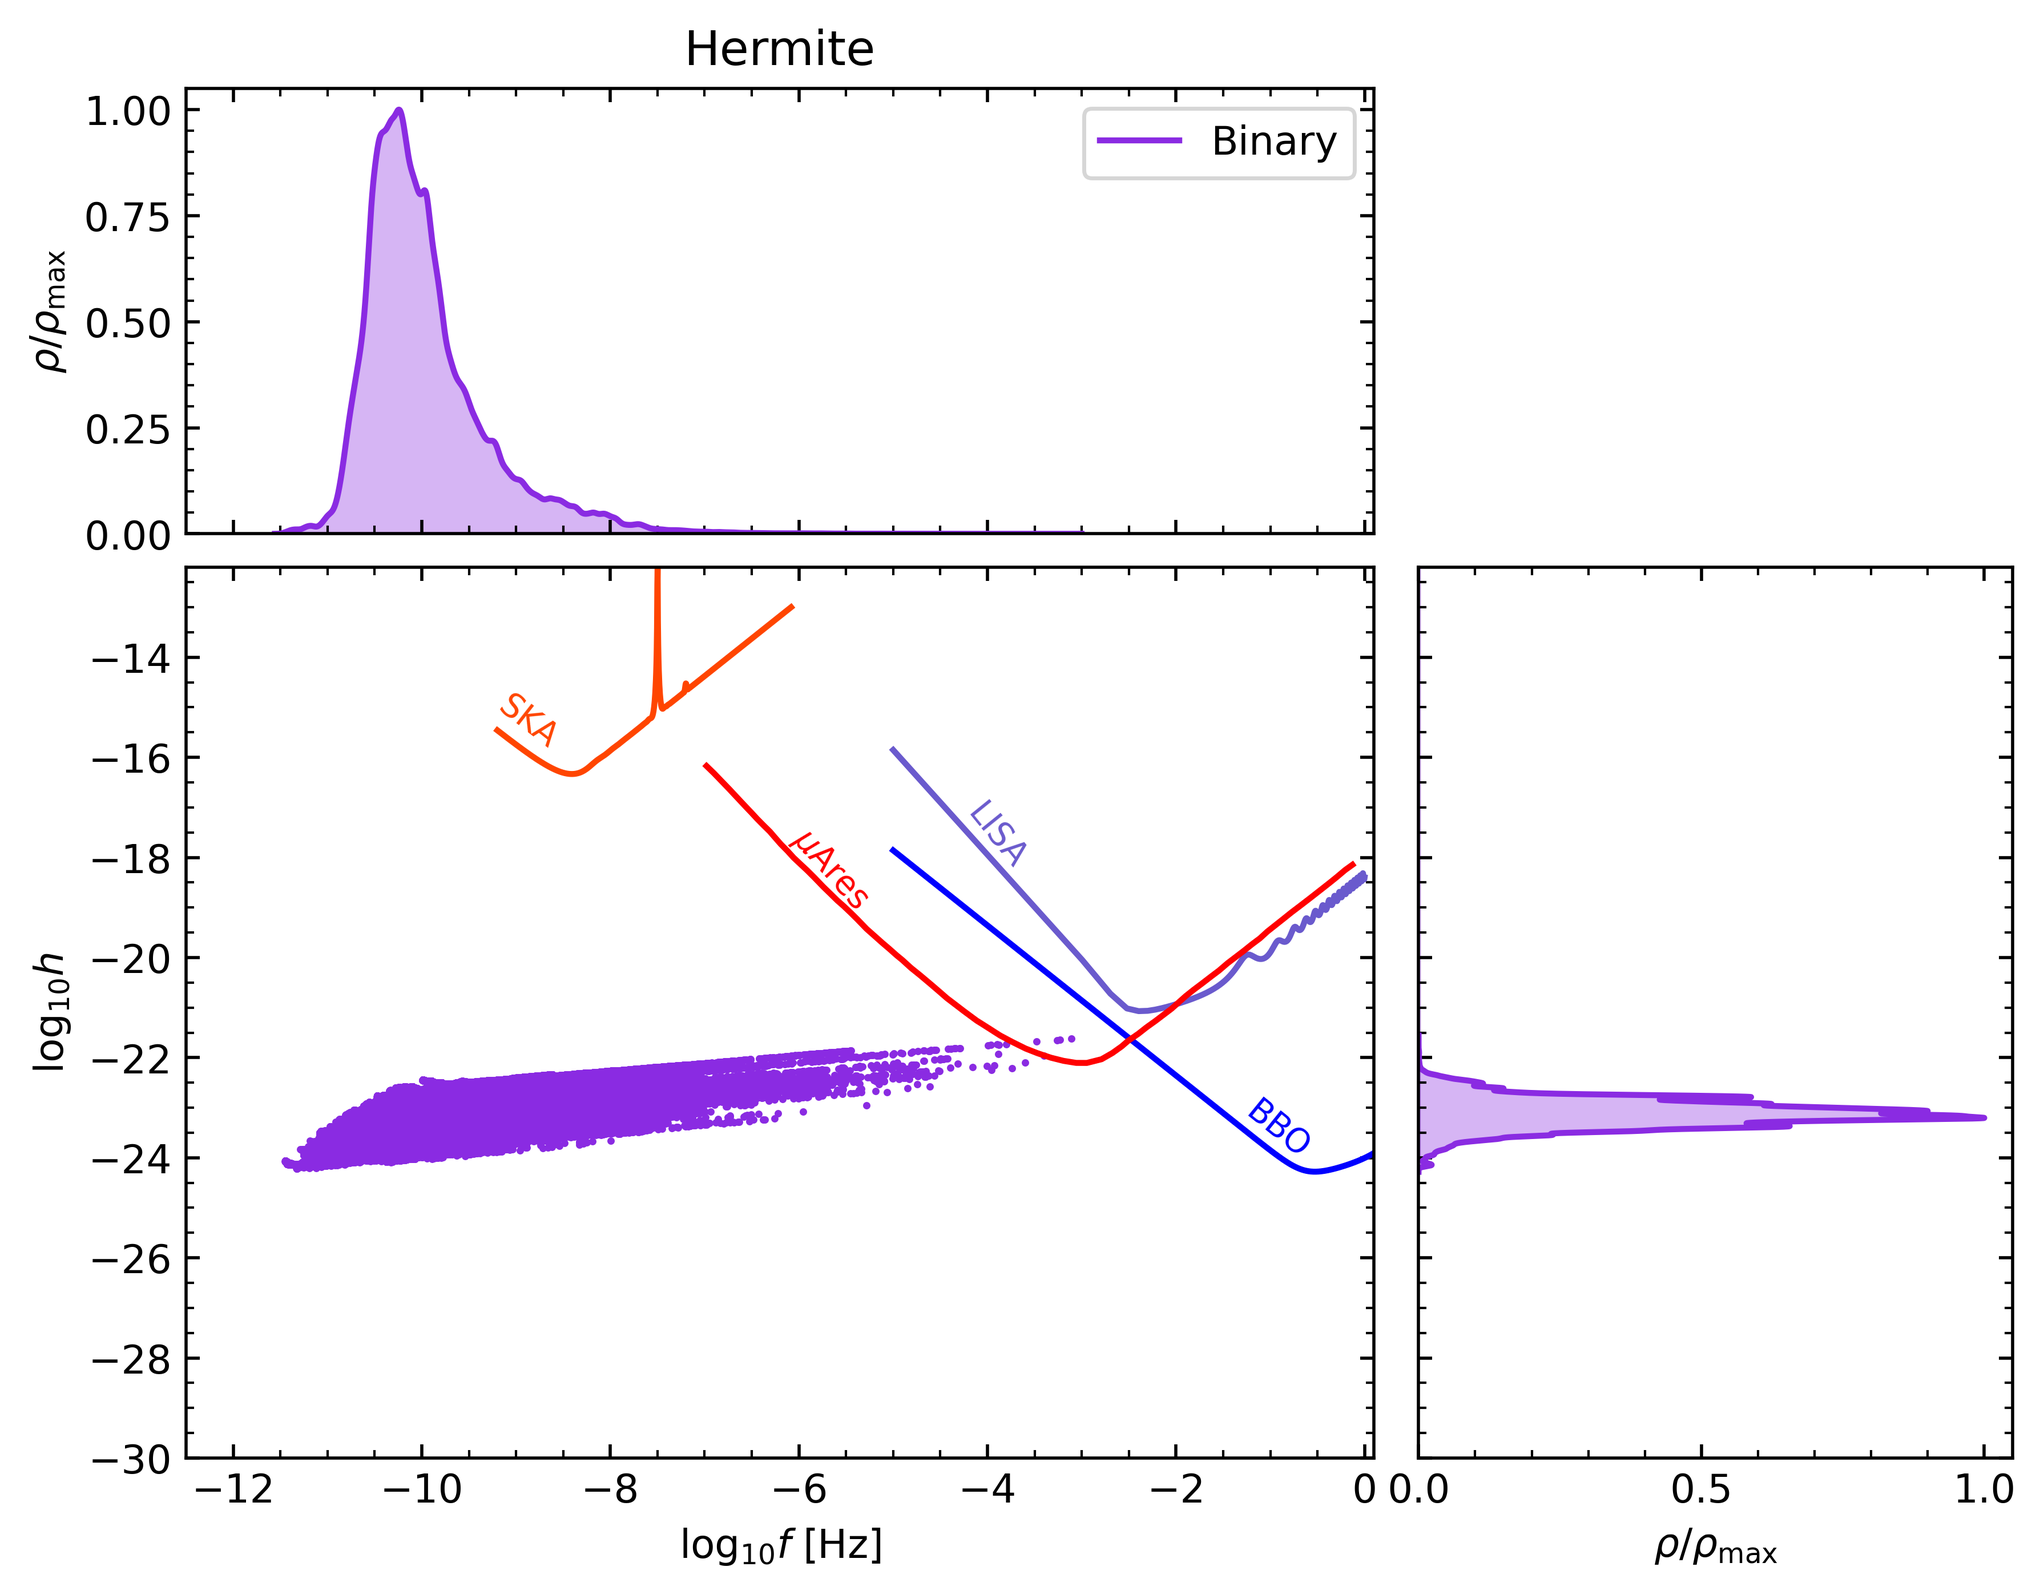
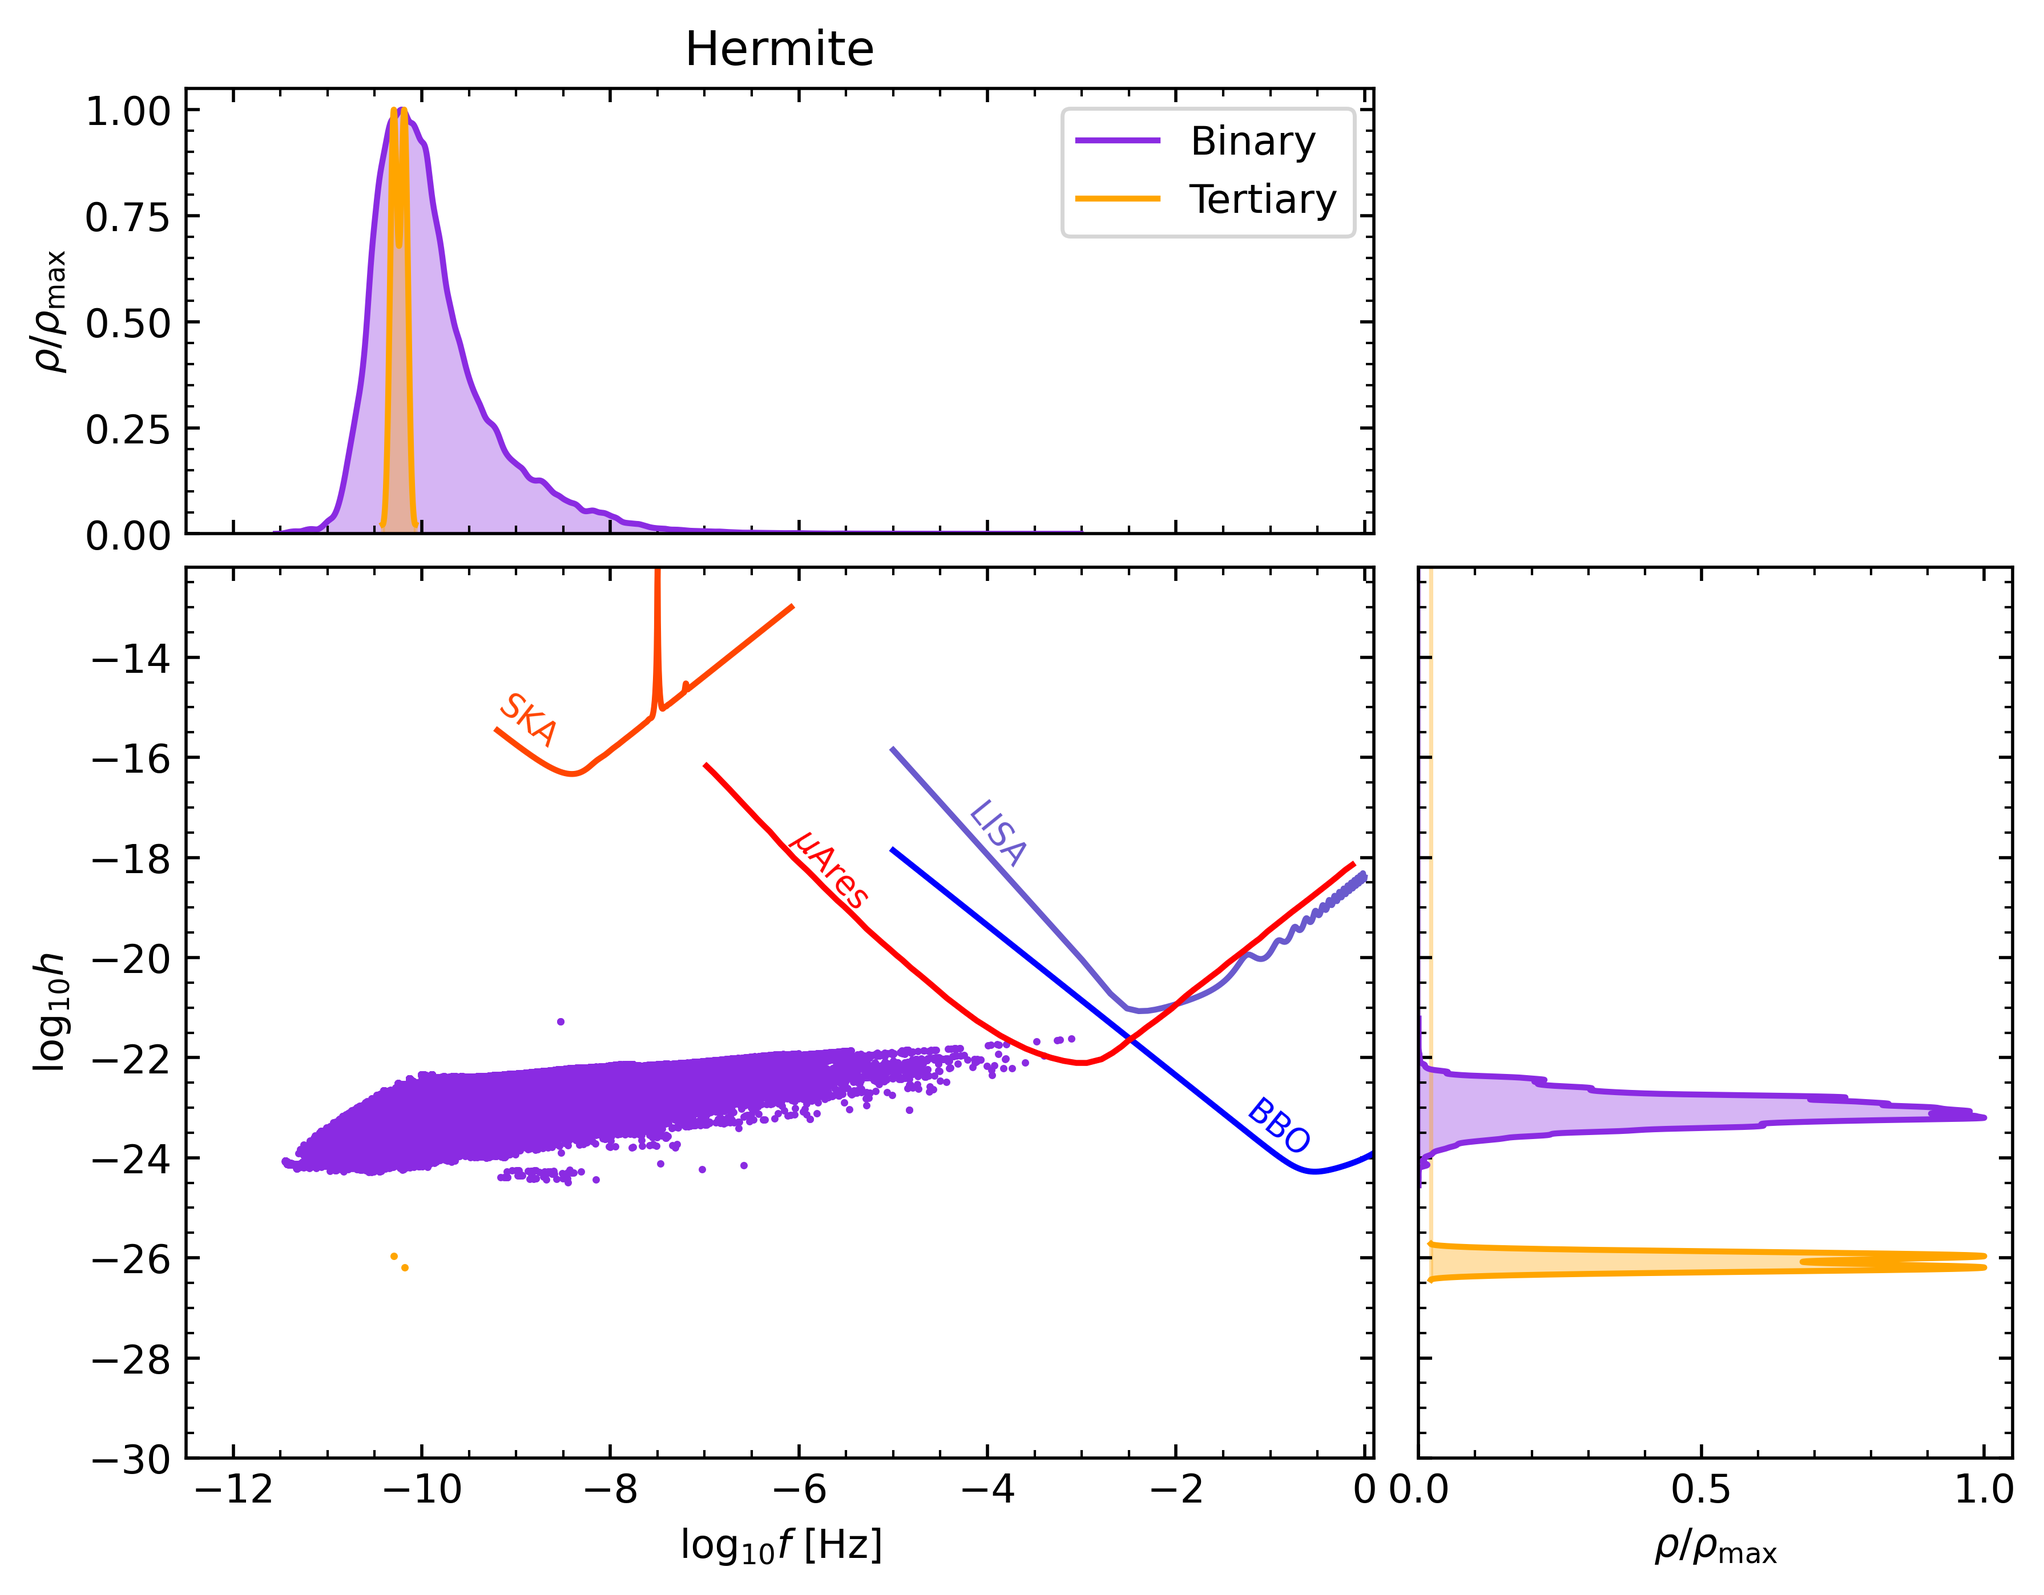
Final Updates!

diff --git a/Data_Process/tGW_plotters.py b/Data_Process/tGW_plotters.py
@@ -589,7 +589,7 @@ class gw_calcs(object):
         tgw = (5/256) * (constants.c)**5/(constants.G**3)*(semi**4*(1-ecc**2)**3.5)/(red_mass*tot_mass**2)
         return tgw
 
-    def scatter_hist(self, x1, y1, x2, y2, ax, ax_histf, ax_histh, label1, label2, data_exist, data_filt, iter_Test):
+    def scatter_hist(self, x1, y1, x2, y2, ax, ax_histf, ax_histh, label1, label2, data_exist, data_filt):
         """
         Function to plot the frequency/strain histogram along its scatter plot.
         Use of: https://arxiv.org/pdf/2007.04241.pdf and https://arxiv.org/pdf/1408.0740.pdf 
@@ -620,7 +620,6 @@ class gw_calcs(object):
         ax_histf.tick_params(axis="x", labelbottom=False)
         ax_histh.tick_params(axis="y", labelleft=False)
 
-        print('1')
         if (data_filt):
             no_data = round(len(x1)**0.9)
             no_data2 = round(len(x2)**0.5)
@@ -633,7 +632,6 @@ class gw_calcs(object):
         kdef_SMBH.density = (kdef_SMBH.density/max(kdef_SMBH.density))
         ax_histf.plot(kdef_SMBH.support, kdef_SMBH.density, color = 'blueviolet', label = label1)
         ax_histf.fill_between(kdef_SMBH.support, kdef_SMBH.density, alpha = 0.35, color = 'blueviolet')
-        print('2')
         kdeh_SMBH = sm.nonparametric.KDEUnivariate(np.log10(y1[:no_data]))
         kdeh_SMBH.fit()
         kdeh_SMBH.density = (kdeh_SMBH.density / max(kdeh_SMBH.density))
@@ -641,36 +639,17 @@ class gw_calcs(object):
         ax_histh.fill_between(kdeh_SMBH.density, kdeh_SMBH.support, alpha = 0.35, color = 'blueviolet')
 
         if (data_exist):
-            if iter_Test > 5:
-                print('4', len(kdeh_SMBH.density), len(kdeh_SMBH.support))
-                kdef_IMBH = sm.nonparametric.KDEUnivariate(np.log10(x2[:no_data2]))
-                print('swag1')
-                kdef_IMBH.fit()
-                kdef_IMBH.density = (kdef_IMBH.density / max(kdef_IMBH.density))
-                print('swag')
-                ax_histf.plot(kdef_IMBH.support, kdef_IMBH.density, color = 'orange', label = label2)
-                print('swag')
-                ax_histf.fill_between(kdef_IMBH.support, kdef_IMBH.density, alpha = 0.35, color = 'orange')
-                print('xd')
-                kdeh_IMBH = sm.nonparametric.KDEUnivariate(np.log10(y2[:no_data2]))
-                kdeh_IMBH.fit()
-                kdeh_IMBH.density = (kdeh_IMBH.density / max(kdeh_IMBH.density))
-                ax_histh.plot(kdeh_IMBH.density, kdeh_IMBH.support, color = 'orange')
-                ax_histh.fill_between(kdeh_IMBH.density, kdeh_IMBH.support, alpha = 0.35, color = 'orange')
-            else:
-                print('4', len(kdeh_SMBH.density), len(kdeh_SMBH.support))
-                kdef_IMBH = sm.nonparametric.KDEUnivariate(np.log10(x2[:no_data2]))
-                kdef_IMBH.fit()
-                kdef_IMBH.density = (kdef_IMBH.density / max(kdef_IMBH.density))
-                ax_histf.plot(kdef_IMBH.support, kdef_IMBH.density, color = 'orange', label = label2)
-                ax_histf.fill_between(kdef_IMBH.support, kdef_IMBH.density, alpha = 0.35, color = 'orange')
-                kdeh_IMBH = sm.nonparametric.KDEUnivariate(np.log10(y2[:no_data2]))
-                kdeh_IMBH.fit()
-                kdeh_IMBH.density = (kdeh_IMBH.density / max(kdeh_IMBH.density))
-                ax_histh.plot(kdeh_IMBH.density, kdeh_IMBH.support, color = 'orange')
-                ax_histh.fill_between(kdeh_IMBH.density, kdeh_IMBH.support, alpha = 0.35, color = 'orange')
-
-        print('5')
+            kdef_IMBH = sm.nonparametric.KDEUnivariate(np.log10(x2[:no_data2]))
+            kdef_IMBH.fit()
+            kdef_IMBH.density = (kdef_IMBH.density / max(kdef_IMBH.density))
+            ax_histf.plot(kdef_IMBH.support, kdef_IMBH.density, color = 'orange', label = label2)
+            ax_histf.fill_between(kdef_IMBH.support, kdef_IMBH.density, alpha = 0.35, color = 'orange')
+            kdeh_IMBH = sm.nonparametric.KDEUnivariate(np.log10(y2[:no_data2]))
+            kdeh_IMBH.fit()
+            kdeh_IMBH.density = (kdeh_IMBH.density / max(kdeh_IMBH.density))
+            ax_histh.plot(kdeh_IMBH.density, kdeh_IMBH.support, color = 'orange')
+            ax_histh.fill_between(kdeh_IMBH.density, kdeh_IMBH.support, alpha = 0.35, color = 'orange')
+           
         ax_histf.set_ylim(0, 1.05)
         ax_histf.set_ylabel(r'$\rho/\rho_{\rm{max}}$')
         ax_histf.legend()
@@ -860,7 +839,7 @@ class gw_calcs(object):
             ax_top[int_].text(-9.5, -3, r'aLIGO ($f_{\rm{peak}} = 200$ Hz)', verticalalignment = 'center', fontsize ='small', rotation=self.text_angle-10, color = 'white')
             ax_top[int_].text(-6.6, -3, r'LISA ($f_{\rm{peak}} = 10^{-2}$ Hz)', verticalalignment = 'center', fontsize ='small', rotation=self.text_angle-10, color = 'white')
             ax_top[int_].text(-2.55, -3, r'$t_{\rm{GW}} > t_H$', verticalalignment = 'center', fontsize ='small', rotation=self.text_angle+2, color = 'white')
-            ax_top[int_].text(-2.93, -3, r'$t_{\rm{GW}} < t_H$', verticalalignment = 'center', fontsize ='small', rotation=self.text_angle+2, color = 'white')
+            ax_top[int_].text(-2.95, -3, r'$t_{\rm{GW}} < t_H$', verticalalignment = 'center', fontsize ='small', rotation=self.text_angle+2, color = 'white')
 
             self.forecast_interferometer(ax_bot[int_], self.mass_parti[0][0], self.mass_SMBH[0][0])
             ax_bot[int_].plot(x_arr, const_tgw2, color = 'white')
@@ -874,7 +853,6 @@ class gw_calcs(object):
         plt.savefig('figures/gravitational_waves/ecc_semi_bins_IMBH_histogram_t.png', dpi=500, bbox_inches='tight')
         plt.clf()
 
-
         with open('figures/gravitational_waves/output/GW_merger_time.txt', 'w') as file:
             file.write('Values correspond to N <= 20 data')
             for int_ in range(2):
@@ -882,9 +860,9 @@ class gw_calcs(object):
                 SMBH_tgw[int_] = np.asarray(SMBH_tgw[int_]) 
                 file.write('Data for '+str(self.integrator[int_]))
                 file.write('\nAverage GW timescales for IMBH-IMBH:        ' + str(np.mean(IMBH_tgw_filt[int_])) + ' Myr')
-                file.write('\nMerging GW timescales for IMBH-IMBH:        ' + str(IMBH_tgw_filt[int_][IMBH_tgw_filt[int_] < self.tH.value_in(units.Myr)]) + ' Myr')
+                #file.write('\nMerging GW timescales for IMBH-IMBH:        ' + str(IMBH_tgw_filt[int_][IMBH_tgw_filt[int_] < self.tH.value_in(units.Myr)]) + ' Myr')
                 file.write('\nAverage GW timescales for SMBH-IMBH:        ' + str(np.mean(SMBH_tgw_filt[int_])) + ' Myr')
-                file.write('\nMerging GW timescales for SMBH-IMBH:        ' + str(SMBH_tgw[int_][SMBH_tgw[int_] < self.tH.value_in(units.Myr)]) + ' Myr')
+                #file.write('\nMerging GW timescales for SMBH-IMBH:        ' + str(SMBH_tgw[int_][SMBH_tgw[int_] < self.tH.value_in(units.Myr)]) + ' Myr')
                 if int_ == 0:
                     file.write('\n===========================================================================================================================================\n\n')
 
@@ -1090,11 +1068,11 @@ class gw_calcs(object):
         ax = fig.add_subplot(gs[1, 0])
         ax1 = fig.add_subplot(gs[0, 0], sharex=ax)
         ax2 = fig.add_subplot(gs[1, 1], sharey=ax)
-        iter_Test = 10
+        
         self.scatter_hist(SMBH_freq, SMBH_strain,
                           IMBH_freq, IMBH_strain, 
                           ax, ax1, ax2, 'SMBH-IMBH', 'IMBH-IMBH',
-                          True, True, iter_Test)
+                          True, True)
         ax.set_xlabel(r'$\log_{10}f$ [Hz]')
         ax.set_ylabel(r'$\log_{10}h$')
         ax1.set_title(str(self.integrator[data_idx]))

diff --git a/Data_Process/sustainable_bintert_plotters.py b/Data_Process/sustainable_bintert_plotters.py
@@ -151,7 +151,7 @@ class sustainable_sys(object):
                                                     ecc_outer = data.iloc[parti_][col_][8][2]
 
                                                     #Calculate tertiary. The stability equality is based on Mardling and Aarseth 2001
-                                                    if ecc_outer < 1 and semi_outer < 5e-2 | units.parsec and semi_outer > 5*nn_semi:
+                                                    if ecc_outer < 1:
                                                         for part_ in range(np.shape(data)[0]):
                                                             if data.iloc[part_][0][0] == data.iloc[parti_][col_][6][2]:
                                                                 mass_outer = data.iloc[part_][0][1]
@@ -208,7 +208,7 @@ class sustainable_sys(object):
                                     dedt.append(np.mean(temp_dedt))
                                     dadt.append(np.mean(temp_dadt))
 
-                                    path = '/home/erwanh/Desktop/SteadyStateBH/Data_Process/data/bin_hier_systems/'
+                                    path = '/home/erwanh/Desktop/SteadyStateBH/Data_Process/data/bin_hier_systems2/'
                                     stab_tracker = pd.DataFrame()
                                     df_stabtime = pd.Series({'Integrator': integrator,
                                                             'Population': pop,
@@ -277,6 +277,7 @@ class sustainable_sys(object):
         various quantitative results.
         """
 
+        print('Extracting data')
         GW_calcs = gw_calcs()
 
         self.integrator = [[ ], [ ]]
@@ -379,7 +380,7 @@ class sustainable_sys(object):
         self.GWfreq_binHard = [[ ], [ ]]
         self.GWstra_binHard = [[ ], [ ]]
 
-        sims = [[10, 19, 20], [ ]]
+        sims = [[10, 19, 20, 20], [40, 40, 40, 40, 40, 40, 40]]
 
         with open('figures/binary_hierarchical/output/system_summary.txt', 'w') as file:
             integrator = ['Hermite', 'GRX']
@@ -441,8 +442,9 @@ class sustainable_sys(object):
                         if np.asarray(self.hard_bin[int_][data_])[idx_nbin-1] > 0:
                             hard_bin += 1
                             hard_Bool = True
-                        if np.asarray(self.GW_tmass[int_][data_])[idx_tbin-1] < 1e6:
-                            IMBH_ter += 1
+                        if np.shape(self.GW_tmass[int_][data_])[0] > 1:
+                            if np.asarray(self.GW_tmass[int_][data_])[idx_tbin-1] < 1e6:
+                                IMBH_ter += 1
                         if np.asarray(self.hard_ter[int_][data_])[idx_tbin-1] > 0:
                             hard_ter += 1
                         
@@ -580,22 +582,16 @@ class sustainable_sys(object):
         ax1 = fig.add_subplot(121)
         ax2 = fig.add_subplot(122)
         ax_ = [ax1, ax2]
-        for int_ in range(1):
+        for int_ in range(2):
             ini_pop = np.unique(self.pop[int_])
             ax_[int_].set_title(integrator[int_])
             ax_[int_].set_xlabel(r'IMBH Population [$N$]')
             ax_[int_].set_ylabel(r'$\log_{10}(t_{\rm{sys}} / t_{\rm{sim}})$')
-            ax_[int_].set_ylim(-4, 0)
+            ax_[int_].set_ylim(-10, 0)
             colour_axes = ax_[int_].scatter(ini_pop, np.log10(self.binary_occupation[int_]), edgecolors  = 'black', c = (self.binary_systems[int_]), norm = (normalise_p1), label = 'Stable Binary')
             ax_[int_].scatter(ini_pop, np.log10(self.tertiary_occupation[int_]), edgecolors  = 'black', c = (self.tertiary_systems[int_]), norm = (normalise_p1), marker = 's', label = 'Stable Triple')
-        plot_ini.tickers_pop(ax1, self.pop[0], 'Hermite')
-        #plot_ini.tickers_pop(ax2, self.pop[1], 'GRX')
-
-        x_arr = np.linspace(5,110)
-        y_arr1 = [0.02*i-3 for i in x_arr]
-        y_arr2 = [0.05*i-3 for i in x_arr]
-        ax1.plot(x_arr, y_arr1, color = 'black', linestyle = ':')
-        ax2.plot(x_arr, y_arr2, color = 'black', linestyle = ':')
+        plot_ini.tickers_pop(ax1, self.pop[1], 'GRX')
+        plot_ini.tickers_pop(ax2, self.pop[1], 'GRX')
         ax2.legend()
         plt.colorbar(colour_axes, ax=ax2, label = r'$\langle N_{\rm{sys}} \rangle$ ')
         plt.savefig('figures/binary_hierarchical/sys_formation_N_plot.pdf', dpi=300, bbox_inches='tight')
@@ -612,7 +608,7 @@ class sustainable_sys(object):
             ax_.set_ylim(0.9*p21ymin, 1.1*p21ymax)
             ax_.yaxis.set_major_formatter(mtick_formatter)        
             ax_.xaxis.set_major_formatter(mtick_formatter)
-        for int_ in range(1):
+        for int_ in range(2):
             ax[int_].axvline(0, color = 'black', linestyle = ':')
             ax[int_].text(0.045, 0.2, 'Hardening', rotation = 270)
             ax[int_].text(-0.14, 0.2, 'Softening', rotation = 90)
@@ -655,7 +651,7 @@ class sustainable_sys(object):
 
         integrators = ['Hermite', 'GRX']
         ####### PLOT FOR ALL ########
-        for int_ in range(1):
+        for int_ in range(2):
            # int_ += 1
             tertiary = False
             if len(self.GWfreq_ter[int_]) > 0:
@@ -675,7 +671,7 @@ class sustainable_sys(object):
             plt.savefig('figures/binary_hierarchical/'+str(integrators[int_])+'GW_freq_strain_maximise_diagram.png', dpi = 500, bbox_inches='tight')
             plt.clf()
 
-        for int_ in range(1):
+        for int_ in range(2):
             fig = plt.figure(figsize=(8, 6))
             gs = fig.add_gridspec(2, 2,  width_ratios=(4, 2), height_ratios=(2, 4),
                                 left=0.1, right=0.9, bottom=0.1, top=0.9,

diff --git a/Data_Process/plot_all_figs.py b/Data_Process/plot_all_figs.py
@@ -8,6 +8,10 @@ from spatial_plotters import *
 
 start_time = cpu_time.time()
 
+print('...steady_plotter...')
+cst = stability_plotters()
+cst.overall_steady_plotter()
+
 print('... ejection_Stat_plotters ...')
 cst = event_tracker()
 cst = ejection_stats()
@@ -17,43 +21,6 @@ cst.energy_plotters()
 cst.vejec_plotters()
 end_ejec = cpu_time.time()
 
-print('...steady_plotter...')
-cst = stability_plotters()
-cst.overall_steady_plotter()
-
-STOP
-
-print('...sustainable_bintert_plotters...')
-cst = sustainable_sys()
-cst.new_data_extractor()
-cst.combine_data()
-cst.system_formation_plotter()
-cst.GW_emissions()
-
-print('...tGW_plotters...')
-cst = gw_calcs()
-cst.new_data_extractor()
-#cst.strain_freq_plotter()
-cst.orbital_hist_plotter()
-#cst.Nenc_tgw_plotter()
-#cst.transient_events()
-
-
-STOP
-
-
-
-
-print('...spatial_plotters...')
-#ejected_evolution()
-#global_properties()
-energy_plotter('Hermite')
-#spatial_plotter('Hermite')
-#chaos_deviate()
-#energy_plotter('GRX')
-#spatial_plotter('GRX')
-
-
 print('...loss_cone_plotters...')
 cst = loss_cone()
 #cst.lcone_plotter()
@@ -61,4 +28,26 @@ cst = loss_cone()
 cst.lcone_fininit_plotter()
 end_LC = cpu_time.time()
 
+print('...spatial_plotters...')
+ejected_evolution()
+global_properties()
+energy_plotter('Hermite')
+#spatial_plotter('Hermite')
+#chaos_deviate()
+#energy_plotter('GRX')
+#spatial_plotter('GRX')
 
+print('...sustainable_bintert_plotters...')
+cst = sustainable_sys()
+cst.combine_data()
+cst.system_formation_plotter()
+cst.GW_emissions()
+cst.new_data_extractor()
+
+print('...tGW_plotters...')
+cst = gw_calcs()
+cst.new_data_extractor()
+cst.strain_freq_plotter()
+cst.orbital_hist_plotter()
+#cst.Nenc_tgw_plotter()
+#cst.transient_events()
